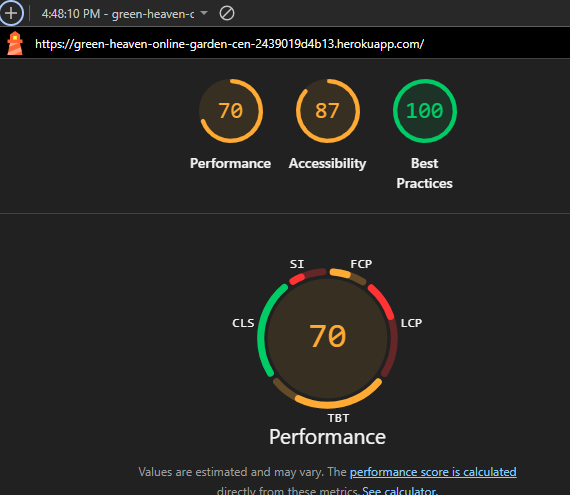
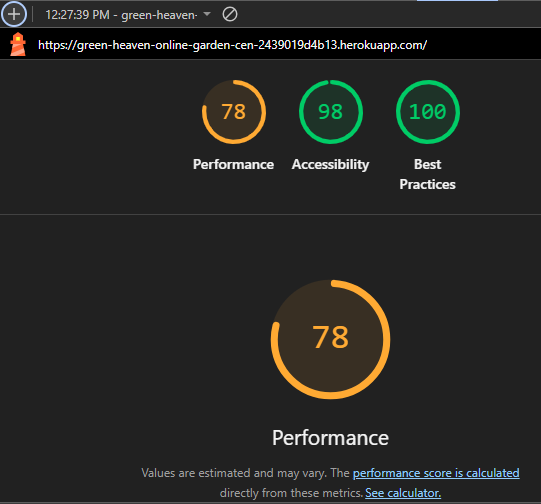
product detail page updated for accessibility

diff --git a/products/templates/products/product_detail.html b/products/templates/products/product_detail.html
@@ -31,7 +31,7 @@
             </div>
             <div class="col-12 col-md-6 col-lg-4">
                 <div class="product-details-container mb-5 mt-md-5">
-                    <p class="mb-0 text-light bg-secondary p-2">{{ product.name }}</p>
+                    <p class="mb-0 text-light bg-dark p-2">{{ product.name }}</p>
                     <p class="lead mb-0 text-left font-weight-bold p-2">£{{ product.price }}</p>
                     {% if product.category %}
                     <p class="small mt-1 mb-0">
@@ -106,17 +106,17 @@
                                 <div class="input-group">
                                     <div class="input-group-prepend">
                                         <button class="decrement-qty btn btn-black rounded-0"
-                                            data-item_id="{{ product.id }}" id="decrement-qty_{{ product.id }}">
+                                            data-item_id="{{ product.id }}" id="decrement-qty_{{ product.id }}" aria-label="Decrease quantity"></button>
                                             <span class="icon">
                                                 <i class="fas fa-minus"></i>
                                             </span>
                                         </button>
                                     </div>
                                     <input class="form-control qty_input" type="number" name="quantity" value="1"
-                                        min="1" max="99" data-item_id="{{ product.id }}" id="id_qty_{{ product.id }}">
+                                        min="1" max="99" data-item_id="{{ product.id }}" id="id_qty_{{ product.id }}" aria-label="Quantity">
                                     <div class="input-group-append">
                                         <button class="increment-qty btn btn-black rounded-0"
-                                            data-item_id="{{ product.id }}" id="increment-qty_{{ product.id }}">
+                                            data-item_id="{{ product.id }}" id="increment-qty_{{ product.id }}" aria-label="Increase quantity"></button>
                                             <span class="icon">
                                                 <i class="fas fa-plus"></i>
                                             </span>

diff --git a/TESTING.md b/TESTING.md
@@ -47,6 +47,7 @@ Multiple JavaScript components are distributed throughout the project, requiring
     **Home page:**\
     ![Lighthouse report for home page](media/testing/lighthouse.PNG)\
     **Product list page:**\
+    ![Lighthouse report for product list page](/media/testing/lighthouse-product-list.PNG)
     **Product page:**\
     ![Lighthouse report for product page](media/testing/lighthouse_product.PNG)\
     **Check out page:**\
